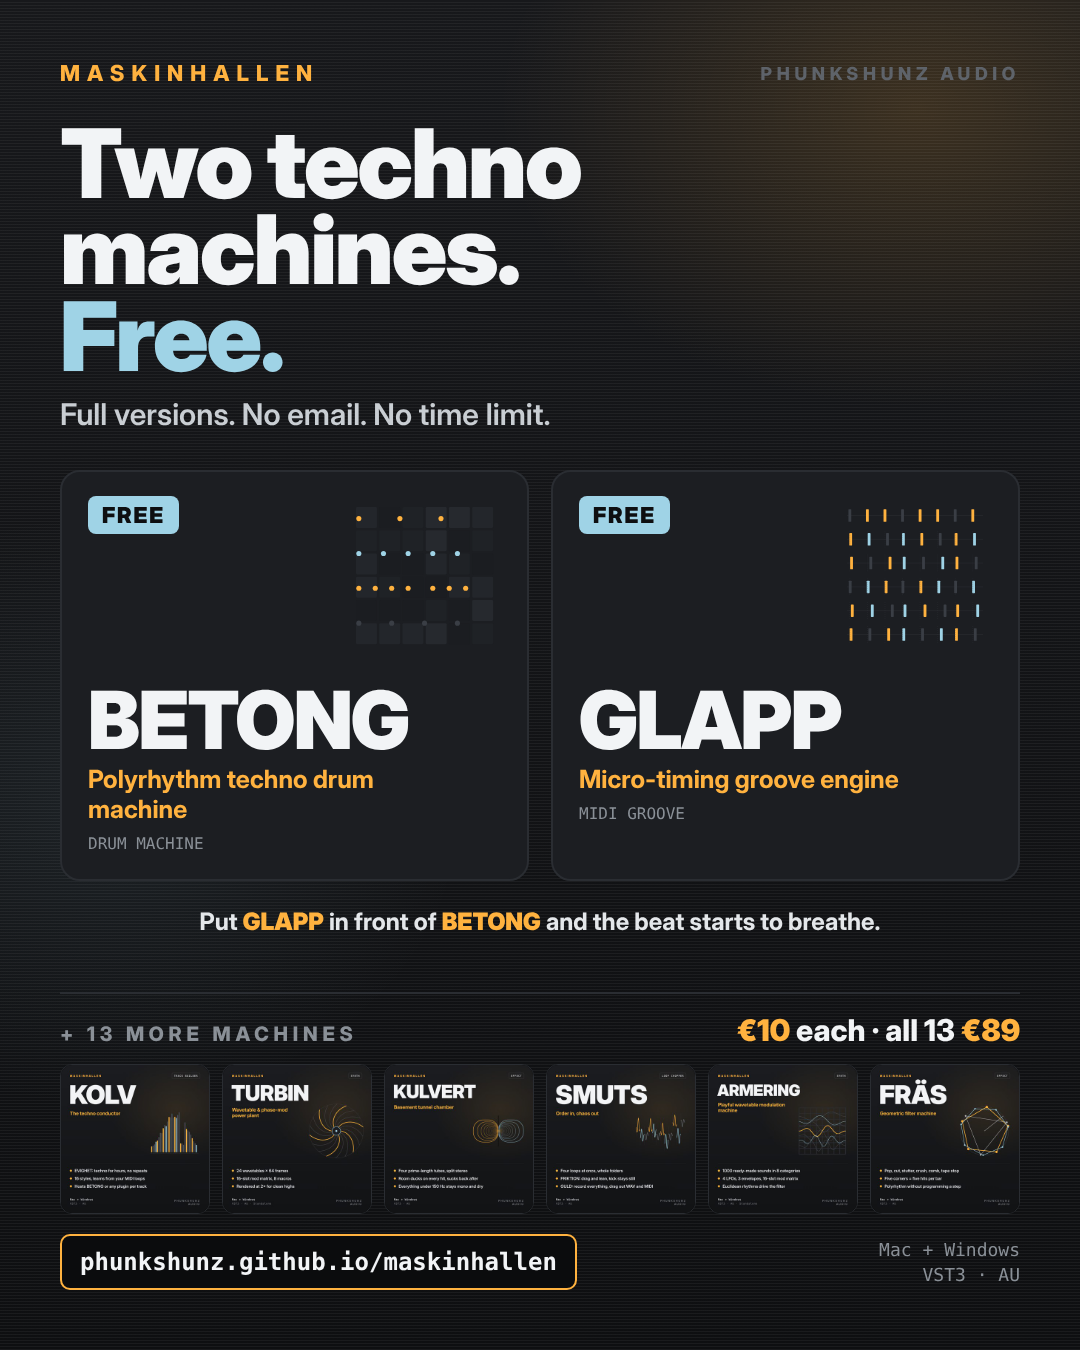
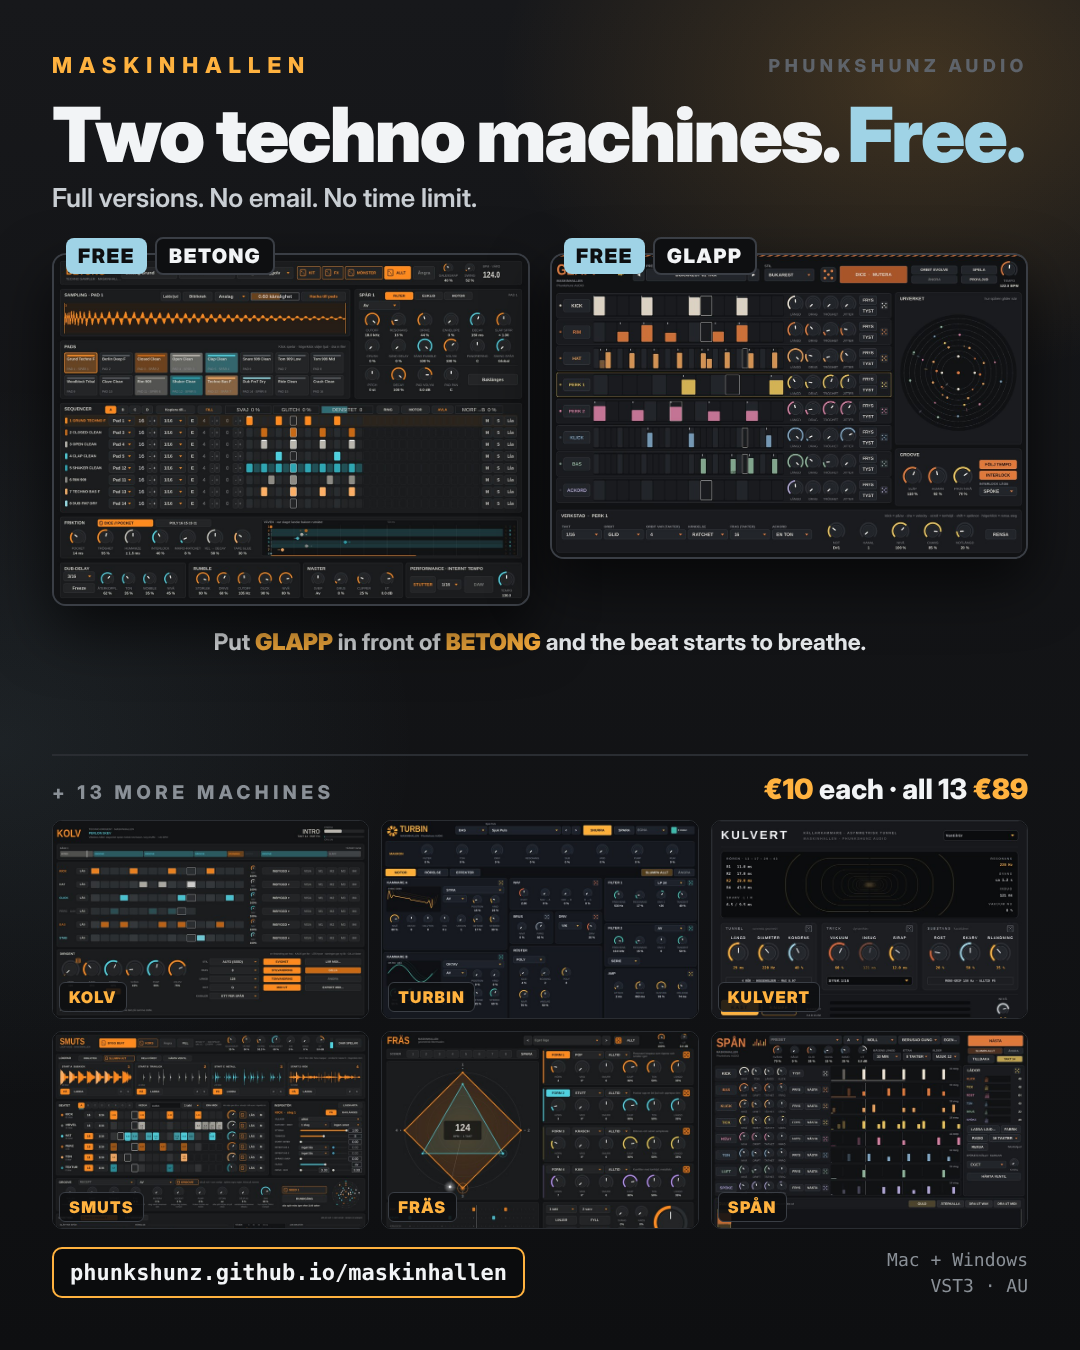
Riktiga skärmbilder av alla 15 maskiner + nya reklambilder
Claude-Session: https://claude.ai/code/session_01HkYMM1VpRZHbunTV7Es1SW

diff --git a/index.html b/index.html
@@ -7,7 +7,7 @@
 <meta name="description" content="15 techno machines from a Stockholm shipyard. BETONG and GLAPP are free. VST3 and AU for Mac and Windows.">
 <meta property="og:title" content="MASKINHALLEN · Techno plugins from Stockholm">
 <meta property="og:description" content="15 techno machines. BETONG and GLAPP are free.">
-<meta property="og:image" content="https://phunkshunz.github.io/maskinhallen/img/og.jpg">
+<meta property="og:image" content="https://phunkshunz.github.io/maskinhallen/payhip/MASKINHALLEN-promo-1200x1200.png">
 <meta name="theme-color" content="#0e0f11">
 <link rel="preconnect" href="https://fonts.googleapis.com"><link rel="preconnect" href="https://fonts.gstatic.com" crossorigin>
 <link href="https://fonts.googleapis.com/css2?family=Inter:wght@400;500;600;700;800;900&family=JetBrains+Mono:wght@500;700&display=swap" rel="stylesheet">
@@ -62,8 +62,9 @@ section{padding:88px 0}
 .plat{font:500 14px/1.5 'JetBrains Mono',monospace;color:var(--grey);margin:0}
 /* free */
 .free-wrap{display:grid;gap:24px}
-.free-card{display:grid;grid-template-columns:minmax(0,1fr) minmax(0,1.1fr);background:var(--panel);border:1px solid var(--edge);border-radius:16px;overflow:hidden}
-.free-card img{width:100%;aspect-ratio:1;object-fit:cover}
+.free-card{display:grid;grid-template-columns:minmax(0,1.5fr) minmax(0,1fr);background:var(--panel);border:1px solid var(--edge);border-radius:16px;overflow:hidden}
+.free-card .shot{background:var(--well);display:flex;align-items:center;padding:18px}
+.free-card img{width:100%;height:auto;border-radius:8px;box-shadow:0 20px 60px rgba(0,0,0,.6)}
 .fc-body{padding:36px}
 .fc-body h3{font-size:clamp(48px,6vw,80px);margin-top:16px}
 .dl{display:flex;gap:10px;flex-wrap:wrap;margin-bottom:14px}
@@ -76,7 +77,8 @@ section{padding:88px 0}
 @media (max-width:640px){.grid{grid-template-columns:1fr}}
 .card{display:flex;flex-direction:column;background:var(--panel);border:1px solid var(--edge);border-radius:14px;overflow:hidden;transition:border-color .2s,transform .2s}
 .card:hover{border-color:var(--edge2);transform:translateY(-2px)}
-.card img{width:100%;aspect-ratio:1;object-fit:cover;border-bottom:1px solid var(--edge)}
+.card .shot{border-bottom:1px solid var(--edge);background:var(--well)}
+.card img{width:100%;aspect-ratio:16/10;object-fit:cover;object-position:top left}
 .c-body{padding:22px;display:flex;flex-direction:column;flex:1}
 .c-top{display:flex;justify-content:space-between;align-items:center;gap:10px;margin-bottom:14px}
 .c-body h3{font-size:30px;margin-bottom:8px}
@@ -88,6 +90,11 @@ section{padding:88px 0}
 .bundle h3{font-size:clamp(32px,4.5vw,52px);margin:8px 0 10px}
 .bundle h3 span{color:var(--amber)}
 .bundle p{margin:0;max-width:560px}
+.shot{position:relative;display:block;overflow:hidden}
+.shot .zoom{position:absolute;right:10px;bottom:10px;font:700 12px/1 'JetBrains Mono',monospace;background:rgba(14,15,17,.85);color:var(--amber);border:1px solid var(--edge2);border-radius:6px;padding:7px 9px;opacity:0;transition:opacity .2s}
+.shot:hover .zoom,.shot:focus-visible .zoom{opacity:1}
+.shot img{transition:transform .4s}
+.card .shot:hover img{transform:scale(1.03)}
 /* steps */
 .steps{display:grid;grid-template-columns:repeat(3,1fr);gap:20px;counter-reset:s}
 .steps div{background:var(--panel);border:1px solid var(--edge);border-radius:14px;padding:26px}
@@ -148,7 +155,7 @@ footer .row{display:flex;justify-content:space-between;gap:16px;flex-wrap:wrap}
   <div class="shead"><div><span class="lbl">Free · no email needed</span><h2 class="disp">Start here.</h2></div>
   <p>A drum machine and the groove engine that drives it. Put GLAPP in front of BETONG and the beat starts to drag and breathe.</p></div>
   <div class="free-wrap"><article class="free-card rv" id="betong">
-  <img src="img/betong.webp" alt="BETONG: Polyrhythm techno drum machine" width="800" height="800" loading="lazy">
+  <a class="shot" href="shots/betong.webp" target="_blank" rel="noopener"><img src="shots/betong.webp" alt="BETONG plugin interface" loading="lazy"><span class="zoom">View full size ↗</span></a>
   <div class="fc-body">
     <span class="chip cold">FREE · DRUM MACHINE</span>
     <h3 class="disp">BETONG</h3>
@@ -159,7 +166,7 @@ footer .row{display:flex;justify-content:space-between;gap:16px;flex-wrap:wrap}
     <p class="plat">Mac + Windows · VST3 · AU · Standalone</p>
   </div>
 </article><article class="free-card rv" id="glapp">
-  <img src="img/glapp.webp" alt="GLAPP: Micro-timing groove engine" width="800" height="800" loading="lazy">
+  <a class="shot" href="shots/glapp.webp" target="_blank" rel="noopener"><img src="shots/glapp.webp" alt="GLAPP plugin interface" loading="lazy"><span class="zoom">View full size ↗</span></a>
   <div class="fc-body">
     <span class="chip cold">FREE · MIDI GROOVE</span>
     <h3 class="disp">GLAPP</h3>
@@ -177,7 +184,7 @@ footer .row{display:flex;justify-content:space-between;gap:16px;flex-wrap:wrap}
   <p>Every machine is €20, or €10 with code <b style="color:var(--amber)">jim.paa</b>. Free updates for life.</p></div>
   <div class="bundle rv"><div><span class="lbl">The whole hall</span><h3 class="disp">All 13 machines. <span>€89.</span></h3><p>Every paid machine in one download, plus every future update. Saves €171 against full price.</p></div><a class="btn solid" data-buy="bundle" href="https://payhip.com/MASKINHALLEN" target="_blank" rel="noopener">Get the bundle</a></div>
   <h3 class="group lbl">Drums &amp; groove</h3><div class="grid"><article class="card rv" id="kolv">
-  <img src="img/kolv.webp" alt="KOLV: The techno conductor" width="800" height="800" loading="lazy">
+  <a class="shot" href="shots/kolv.webp" target="_blank" rel="noopener"><img src="shots/kolv-s.webp" alt="KOLV plugin interface" loading="lazy"><span class="zoom">View full size ↗</span></a>
   <div class="c-body">
     <div class="c-top"><span class="chip">TRACK BUILDER</span><span class="plat">Mac + Windows</span></div>
     <h3 class="disp">KOLV</h3>
@@ -185,7 +192,7 @@ footer .row{display:flex;justify-content:space-between;gap:16px;flex-wrap:wrap}
     <div class="buy"><span class="price"><s>€20</s> €10</span><a class="btn solid" data-buy="kolv" href="https://payhip.com/b/514ux" target="_blank" rel="noopener">Buy KOLV</a></div>
   </div>
 </article><article class="card rv" id="smuts">
-  <img src="img/smuts.webp" alt="SMUTS: Order in, chaos out" width="800" height="800" loading="lazy">
+  <a class="shot" href="shots/smuts.webp" target="_blank" rel="noopener"><img src="shots/smuts-s.webp" alt="SMUTS plugin interface" loading="lazy"><span class="zoom">View full size ↗</span></a>
   <div class="c-body">
     <div class="c-top"><span class="chip">LOOP CHOPPER</span><span class="plat">Mac + Windows</span></div>
     <h3 class="disp">SMUTS</h3>
@@ -193,7 +200,7 @@ footer .row{display:flex;justify-content:space-between;gap:16px;flex-wrap:wrap}
     <div class="buy"><span class="price"><s>€20</s> €10</span><a class="btn solid" data-buy="smuts" href="https://payhip.com/b/O4g8A" target="_blank" rel="noopener">Buy SMUTS</a></div>
   </div>
 </article><article class="card rv" id="span">
-  <img src="img/span.webp" alt="SPÅN: Minimal techno microsampler" width="800" height="800" loading="lazy">
+  <a class="shot" href="shots/span.webp" target="_blank" rel="noopener"><img src="shots/span-s.webp" alt="SPÅN plugin interface" loading="lazy"><span class="zoom">View full size ↗</span></a>
   <div class="c-body">
     <div class="c-top"><span class="chip">MICROSAMPLER</span><span class="plat">Mac + Windows</span></div>
     <h3 class="disp">SPÅN</h3>
@@ -201,7 +208,7 @@ footer .row{display:flex;justify-content:space-between;gap:16px;flex-wrap:wrap}
     <div class="buy"><span class="price"><s>€20</s> €10</span><a class="btn solid" data-buy="span" href="https://payhip.com/MASKINHALLEN" target="_blank" rel="noopener">Buy SPÅN</a></div>
   </div>
 </article></div><h3 class="group lbl">Synths &amp; bass</h3><div class="grid"><article class="card rv" id="armering">
-  <img src="img/armering.webp" alt="ARMERING: Playful wavetable modulation machine" width="800" height="800" loading="lazy">
+  <a class="shot" href="shots/armering.webp" target="_blank" rel="noopener"><img src="shots/armering-s.webp" alt="ARMERING plugin interface" loading="lazy"><span class="zoom">View full size ↗</span></a>
   <div class="c-body">
     <div class="c-top"><span class="chip">SYNTH</span><span class="plat">Mac + Windows</span></div>
     <h3 class="disp">ARMERING</h3>
@@ -209,7 +216,7 @@ footer .row{display:flex;justify-content:space-between;gap:16px;flex-wrap:wrap}
     <div class="buy"><span class="price"><s>€20</s> €10</span><a class="btn solid" data-buy="armering" href="https://payhip.com/b/mbVHX" target="_blank" rel="noopener">Buy ARMERING</a></div>
   </div>
 </article><article class="card rv" id="turbin">
-  <img src="img/turbin.webp" alt="TURBIN: Wavetable &amp; phase-mod power plant" width="800" height="800" loading="lazy">
+  <a class="shot" href="shots/turbin.webp" target="_blank" rel="noopener"><img src="shots/turbin-s.webp" alt="TURBIN plugin interface" loading="lazy"><span class="zoom">View full size ↗</span></a>
   <div class="c-body">
     <div class="c-top"><span class="chip">SYNTH</span><span class="plat">Mac + Windows</span></div>
     <h3 class="disp">TURBIN</h3>
@@ -217,7 +224,7 @@ footer .row{display:flex;justify-content:space-between;gap:16px;flex-wrap:wrap}
     <div class="buy"><span class="price"><s>€20</s> €10</span><a class="btn solid" data-buy="turbin" href="https://payhip.com/b/bNnoC" target="_blank" rel="noopener">Buy TURBIN</a></div>
   </div>
 </article><article class="card rv" id="smidet">
-  <img src="img/smidet.webp" alt="SMIDET: The euclidean forge" width="800" height="800" loading="lazy">
+  <a class="shot" href="shots/smidet.webp" target="_blank" rel="noopener"><img src="shots/smidet-s.webp" alt="SMIDET plugin interface" loading="lazy"><span class="zoom">View full size ↗</span></a>
   <div class="c-body">
     <div class="c-top"><span class="chip">SYNTH</span><span class="plat">Mac + Windows</span></div>
     <h3 class="disp">SMIDET</h3>
@@ -225,7 +232,7 @@ footer .row{display:flex;justify-content:space-between;gap:16px;flex-wrap:wrap}
     <div class="buy"><span class="price"><s>€20</s> €10</span><a class="btn solid" data-buy="smidet" href="https://payhip.com/b/J9sZj" target="_blank" rel="noopener">Buy SMIDET</a></div>
   </div>
 </article><article class="card rv" id="fasfel">
-  <img src="img/fasfel.webp" alt="FASFEL: Microtonal knock resonator" width="800" height="800" loading="lazy">
+  <a class="shot" href="shots/fasfel.webp" target="_blank" rel="noopener"><img src="shots/fasfel-s.webp" alt="FASFEL plugin interface" loading="lazy"><span class="zoom">View full size ↗</span></a>
   <div class="c-body">
     <div class="c-top"><span class="chip">SYNTH</span><span class="plat">Mac + Windows</span></div>
     <h3 class="disp">FASFEL</h3>
@@ -233,7 +240,7 @@ footer .row{display:flex;justify-content:space-between;gap:16px;flex-wrap:wrap}
     <div class="buy"><span class="price"><s>€20</s> €10</span><a class="btn solid" data-buy="fasfel" href="https://payhip.com/MASKINHALLEN" target="_blank" rel="noopener">Buy FASFEL</a></div>
   </div>
 </article><article class="card rv" id="grund">
-  <img src="img/grund.webp" alt="GRUND: Sub &amp; micro-pluck bass" width="800" height="800" loading="lazy">
+  <a class="shot" href="shots/grund.webp" target="_blank" rel="noopener"><img src="shots/grund-s.webp" alt="GRUND plugin interface" loading="lazy"><span class="zoom">View full size ↗</span></a>
   <div class="c-body">
     <div class="c-top"><span class="chip">BASS SYNTH</span><span class="plat">Mac + Windows</span></div>
     <h3 class="disp">GRUND</h3>
@@ -241,7 +248,7 @@ footer .row{display:flex;justify-content:space-between;gap:16px;flex-wrap:wrap}
     <div class="buy"><span class="price"><s>€20</s> €10</span><a class="btn solid" data-buy="grund" href="https://payhip.com/MASKINHALLEN" target="_blank" rel="noopener">Buy GRUND</a></div>
   </div>
 </article><article class="card rv" id="allanrop">
-  <img src="img/allanrop.webp" alt="ALLANROP: Type text, it shouts in time" width="800" height="800" loading="lazy">
+  <a class="shot" href="shots/allanrop.webp" target="_blank" rel="noopener"><img src="shots/allanrop-s.webp" alt="ALLANROP plugin interface" loading="lazy"><span class="zoom">View full size ↗</span></a>
   <div class="c-body">
     <div class="c-top"><span class="chip">VOICE</span><span class="plat">Mac + Windows</span></div>
     <h3 class="disp">ALLANROP</h3>
@@ -249,7 +256,7 @@ footer .row{display:flex;justify-content:space-between;gap:16px;flex-wrap:wrap}
     <div class="buy"><span class="price"><s>€20</s> €10</span><a class="btn solid" data-buy="allanrop" href="https://payhip.com/MASKINHALLEN" target="_blank" rel="noopener">Buy ALLANROP</a></div>
   </div>
 </article></div><h3 class="group lbl">Effects</h3><div class="grid"><article class="card rv" id="fukt">
-  <img src="img/fukt.webp" alt="FUKT: Twin filter &amp; grit machine" width="800" height="800" loading="lazy">
+  <a class="shot" href="shots/fukt.webp" target="_blank" rel="noopener"><img src="shots/fukt-s.webp" alt="FUKT plugin interface" loading="lazy"><span class="zoom">View full size ↗</span></a>
   <div class="c-body">
     <div class="c-top"><span class="chip">EFFECT</span><span class="plat">Mac + Windows</span></div>
     <h3 class="disp">FUKT</h3>
@@ -257,7 +264,7 @@ footer .row{display:flex;justify-content:space-between;gap:16px;flex-wrap:wrap}
     <div class="buy"><span class="price"><s>€20</s> €10</span><a class="btn solid" data-buy="fukt" href="https://payhip.com/b/DQHgr" target="_blank" rel="noopener">Buy FUKT</a></div>
   </div>
 </article><article class="card rv" id="fras">
-  <img src="img/fras.webp" alt="FRÄS: Geometric filter machine" width="800" height="800" loading="lazy">
+  <a class="shot" href="shots/fras.webp" target="_blank" rel="noopener"><img src="shots/fras-s.webp" alt="FRÄS plugin interface" loading="lazy"><span class="zoom">View full size ↗</span></a>
   <div class="c-body">
     <div class="c-top"><span class="chip">EFFECT</span><span class="plat">Mac + Windows</span></div>
     <h3 class="disp">FRÄS</h3>
@@ -265,7 +272,7 @@ footer .row{display:flex;justify-content:space-between;gap:16px;flex-wrap:wrap}
     <div class="buy"><span class="price"><s>€20</s> €10</span><a class="btn solid" data-buy="fras" href="https://payhip.com/MASKINHALLEN" target="_blank" rel="noopener">Buy FRÄS</a></div>
   </div>
 </article><article class="card rv" id="ventil">
-  <img src="img/ventil.webp" alt="VENTIL: Groove, breath &amp; dub" width="800" height="800" loading="lazy">
+  <a class="shot" href="shots/ventil.webp" target="_blank" rel="noopener"><img src="shots/ventil-s.webp" alt="VENTIL plugin interface" loading="lazy"><span class="zoom">View full size ↗</span></a>
   <div class="c-body">
     <div class="c-top"><span class="chip">EFFECT</span><span class="plat">Mac + Windows</span></div>
     <h3 class="disp">VENTIL</h3>
@@ -273,7 +280,7 @@ footer .row{display:flex;justify-content:space-between;gap:16px;flex-wrap:wrap}
     <div class="buy"><span class="price"><s>€20</s> €10</span><a class="btn solid" data-buy="ventil" href="https://payhip.com/MASKINHALLEN" target="_blank" rel="noopener">Buy VENTIL</a></div>
   </div>
 </article><article class="card rv" id="kulvert">
-  <img src="img/kulvert.webp" alt="KULVERT: Basement tunnel chamber" width="800" height="800" loading="lazy">
+  <a class="shot" href="shots/kulvert.webp" target="_blank" rel="noopener"><img src="shots/kulvert-s.webp" alt="KULVERT plugin interface" loading="lazy"><span class="zoom">View full size ↗</span></a>
   <div class="c-body">
     <div class="c-top"><span class="chip">EFFECT</span><span class="plat">Mac + Windows</span></div>
     <h3 class="disp">KULVERT</h3>
